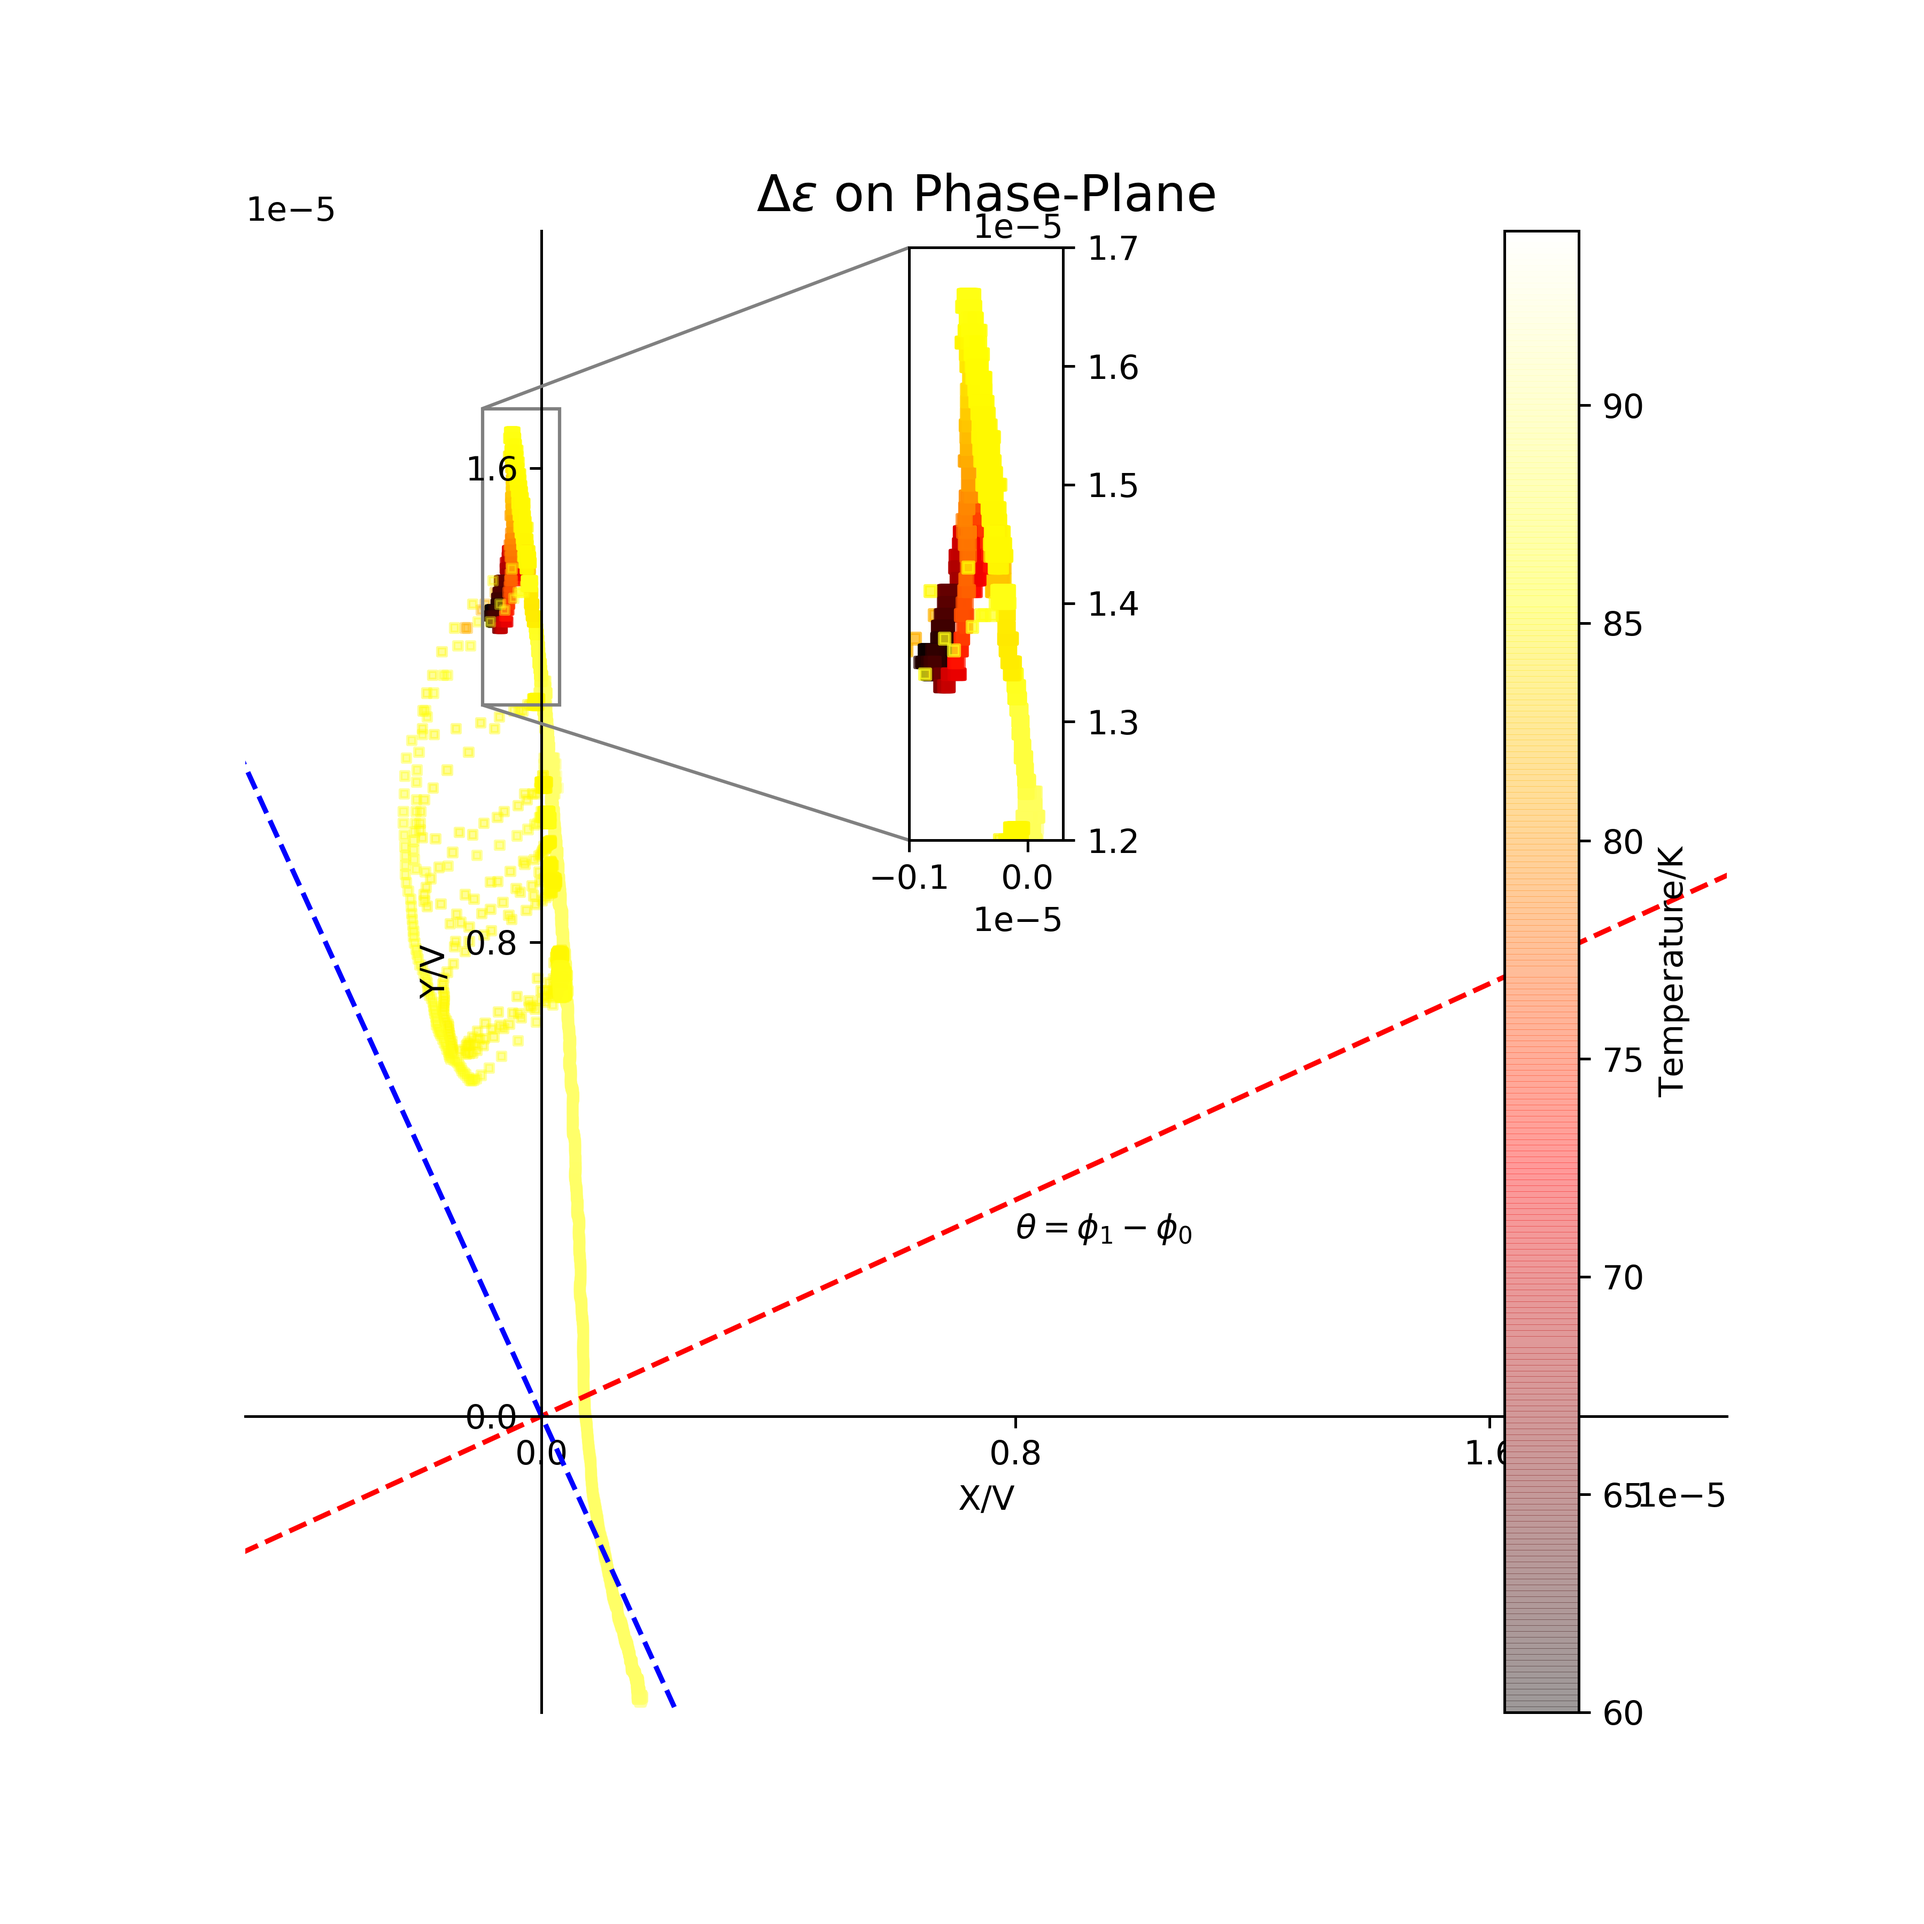
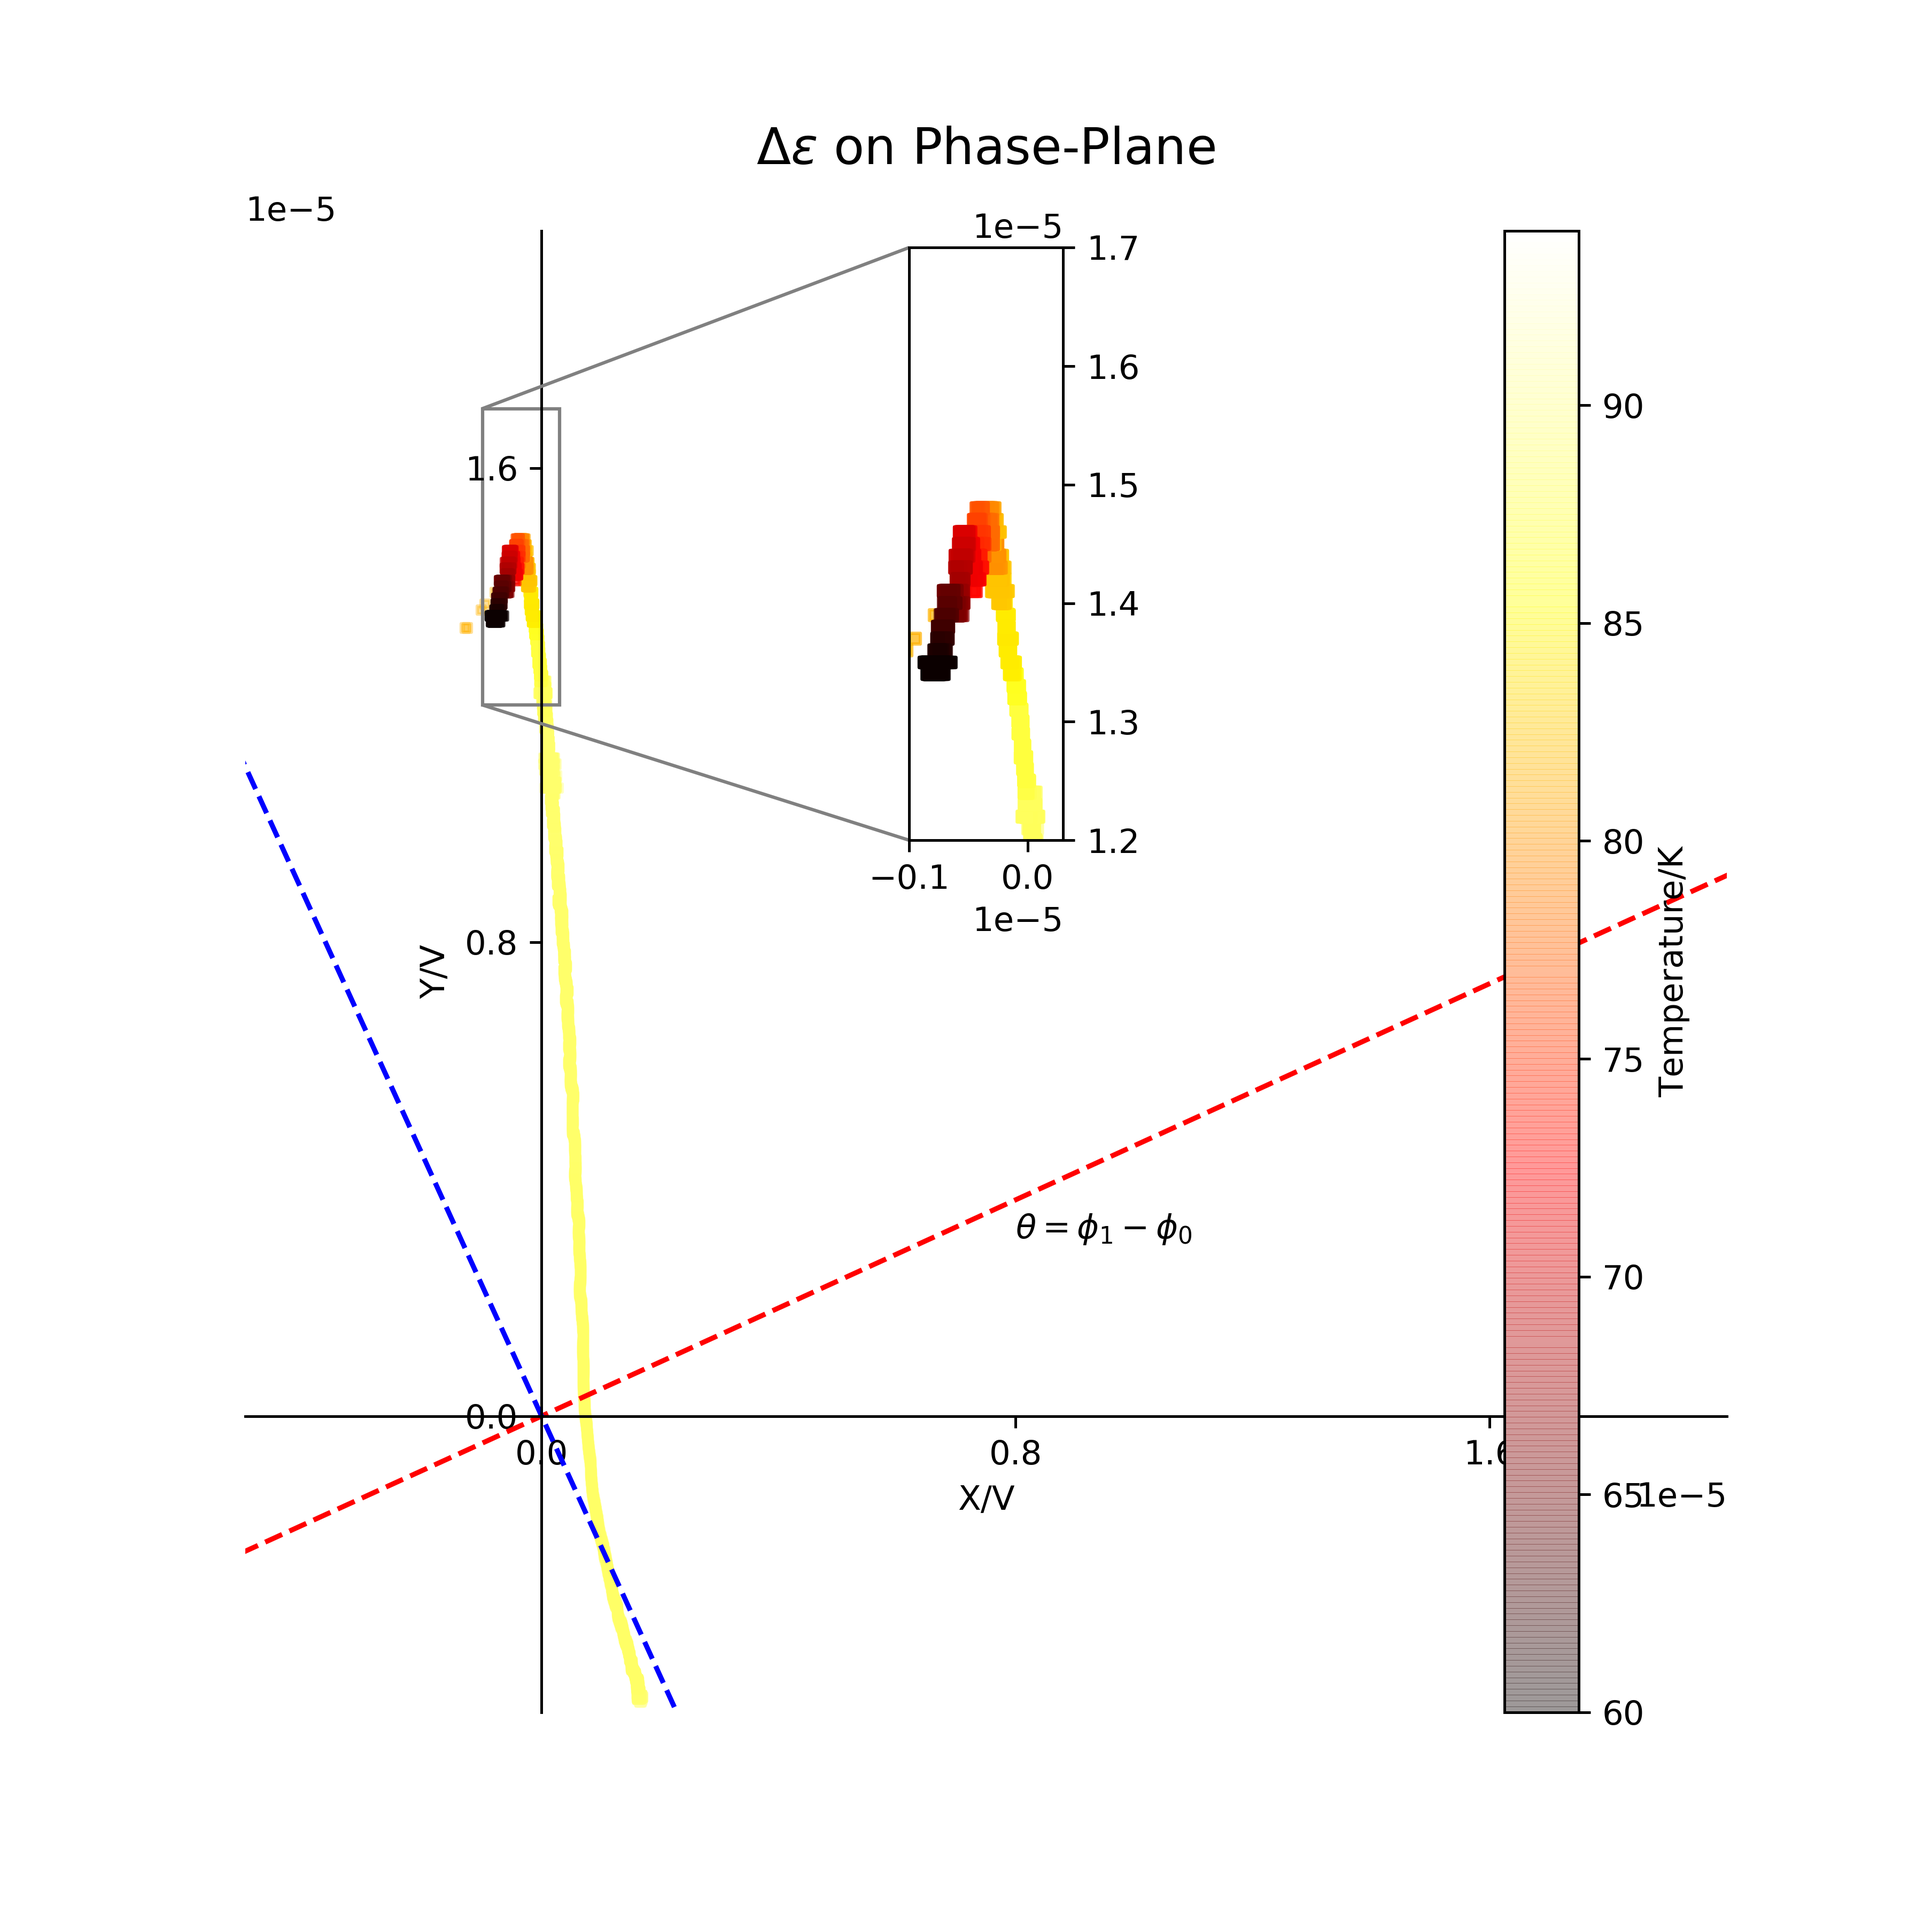
Do some data cleaning about E1

Changed region(s): [[0.1867, 0.2178, 0.3111, 0.56], [0.4044, 0.0622, 0.6222, 0.1244], [0.4667, 0.1556, 0.5289, 0.3733]]

diff --git a/script/E1_AC_chi.py b/script/E1_AC_chi.py
@@ -11,6 +11,7 @@ __author__ = 'Tian'
 fname = "../data/E1_chi_0G.xls"
 col_name = ['R', 'temp', 'B', 'X', 'Y', 'theta', 'freq', 'noise']
 data = pd.read_csv(fname, delimiter='\t', names=col_name, skiprows=[0, 1])
+data = data.loc[:50000,:]
 
 bg_phase = -155.48 * np.pi / 180 # Unit: radian
 bg_phase_right = (-155.48 + 90) * np.pi / 180 # Unit: radian
@@ -32,14 +33,14 @@ ax.ticklabel_format(axis='x', style='sci', scilimits=(-6, -5))
 ax.ticklabel_format(axis='y', style='sci', scilimits=(-6, -5))
 ax.set_xlabel("X/V")
 ax.set_ylabel("Y/V")
-ax.set_title(r"$\Delta \epsilon$ on Phase-Plane", fontsize=15)
-ax.set_xlim(-5e-6, 2e-5)
-ax.set_ylim(-5e-6, 2e-5)
+ax.set_title(r"$\Delta \epsilon$ on Phase-Plane", fontsize=15, pad=20)
+ax.set_xlim(-4e-6, 2e-5)
+ax.set_ylim(-3e-6, 2e-5)
 ax.set_aspect("equal")
 
 # Plot bg phase
-ax.plot(bg_x, bg_y, 'r--', bg_x_right, bg_y_right, 'b--')
-ax.text(8e-6, 3e-6, r"$\theta = \phi_1 - \phi_0$")
+# ax.plot(bg_x, bg_y, 'r--', bg_x_right, bg_y_right, 'b--')
+# ax.text(8e-6, 3e-6, r"$\theta = \phi_1 - \phi_0$")
 
 axins = zoomed_inset_axes(ax, zoom=2, loc=9)
 axins.scatter(data.X, data.Y, alpha=0.7, s=10, c=data.temp, cmap="hot", norm=_norm)
@@ -56,5 +57,5 @@ mark_inset(ax, axins, loc1=2, loc2=3, fc="none", ec="0.5")
 
 cbar = fig.colorbar(points)
 cbar.ax.set_ylabel("Temperature/K")
-plt.savefig("../figure/E1_chi_transition_0G_with_bg.png", dpi=450, transparent=True)
-# plt.show()
+# plt.savefig("../figure/E1_chi_transition_0G.png", dpi=450, transparent=True)
+plt.show()

diff --git a/script/E1_different_transition.py b/script/E1_different_transition.py
@@ -8,6 +8,7 @@ __author__ = 'Tian'
 fname = "../data/E1_chi_different_G.xls"
 col_name = ['R', 'temp', 'B', 'X', 'Y', 'theta', 'freq', 'noise']
 data = pd.read_csv(fname, delimiter='\t', names=col_name, skiprows=[0, 1])
+data = data.loc[:56000,:]
 magnetic = np.array([1., 2., 3., 3.5])
 
 # Background phase difference
@@ -40,6 +41,7 @@ for field in magnetic:
                 'o', markersize=3, alpha=.3, label=f'B={field:.1f}kG')
 # fname = "../data/E1_chi_0G.xls"
 # data0 = pd.read_csv(fname, delimiter='\t', names=col_name, skiprows=[0, 1])
+# data0 = data0.loc[:50000,:]
 #
 # # Caused by non-ideal and non-symmetry coils
 # non_ideal_coils = np.copy(np.mean(data0[["X", "Y"]][data0.temp == max(data0.temp)]))
@@ -60,10 +62,10 @@ axs[1].ticklabel_format(axis='y', style='sci', scilimits=(-7, -6))
 axs[1].set_ylabel(r"$K\cdot Re(\chi)$")
 axs[1].set_xlabel("Temperature/K")
 
-axs[1].set_xlim(85, 92)
+axs[1].set_xlim(85, 93)
 axs[0].legend(lines, [i.get_label() for i in lines], ncol=4,\
            markerscale=5, loc="upper right", bbox_to_anchor=(0.89,1.14), shadow=True)
 
 fig.subplots_adjust(hspace=0)
-# plt.savefig(r"../figure/E1_chi_different_G.png", dpi=450, transparent=True)
+plt.savefig(r"../figure/E1_chi_different_G_refined.png", dpi=450, transparent=True)
 # plt.show()

diff --git a/script/E1_temp_chi.py b/script/E1_temp_chi.py
@@ -8,6 +8,7 @@ __author__ = 'Tian'
 fname = "../data/E1_chi_0G.xls"
 col_name = ['R', 'temp', 'B', 'X', 'Y', 'theta', 'freq', 'noise']
 data = pd.read_csv(fname, delimiter='\t', names=col_name, skiprows=[0, 1])
+data = data.loc[:50000,:]
 
 # Background phase difference
 bg_phase = -155.48 * np.pi / 180 # Unit: radian
@@ -39,4 +40,4 @@ axs[1].set_xlabel("Temperature/K")
 
 fig.subplots_adjust(hspace=0)
 plt.savefig(r"../figure/E1_chi_temp.png", dpi=450, transparent=True)
-plt.show()
+# plt.show()
